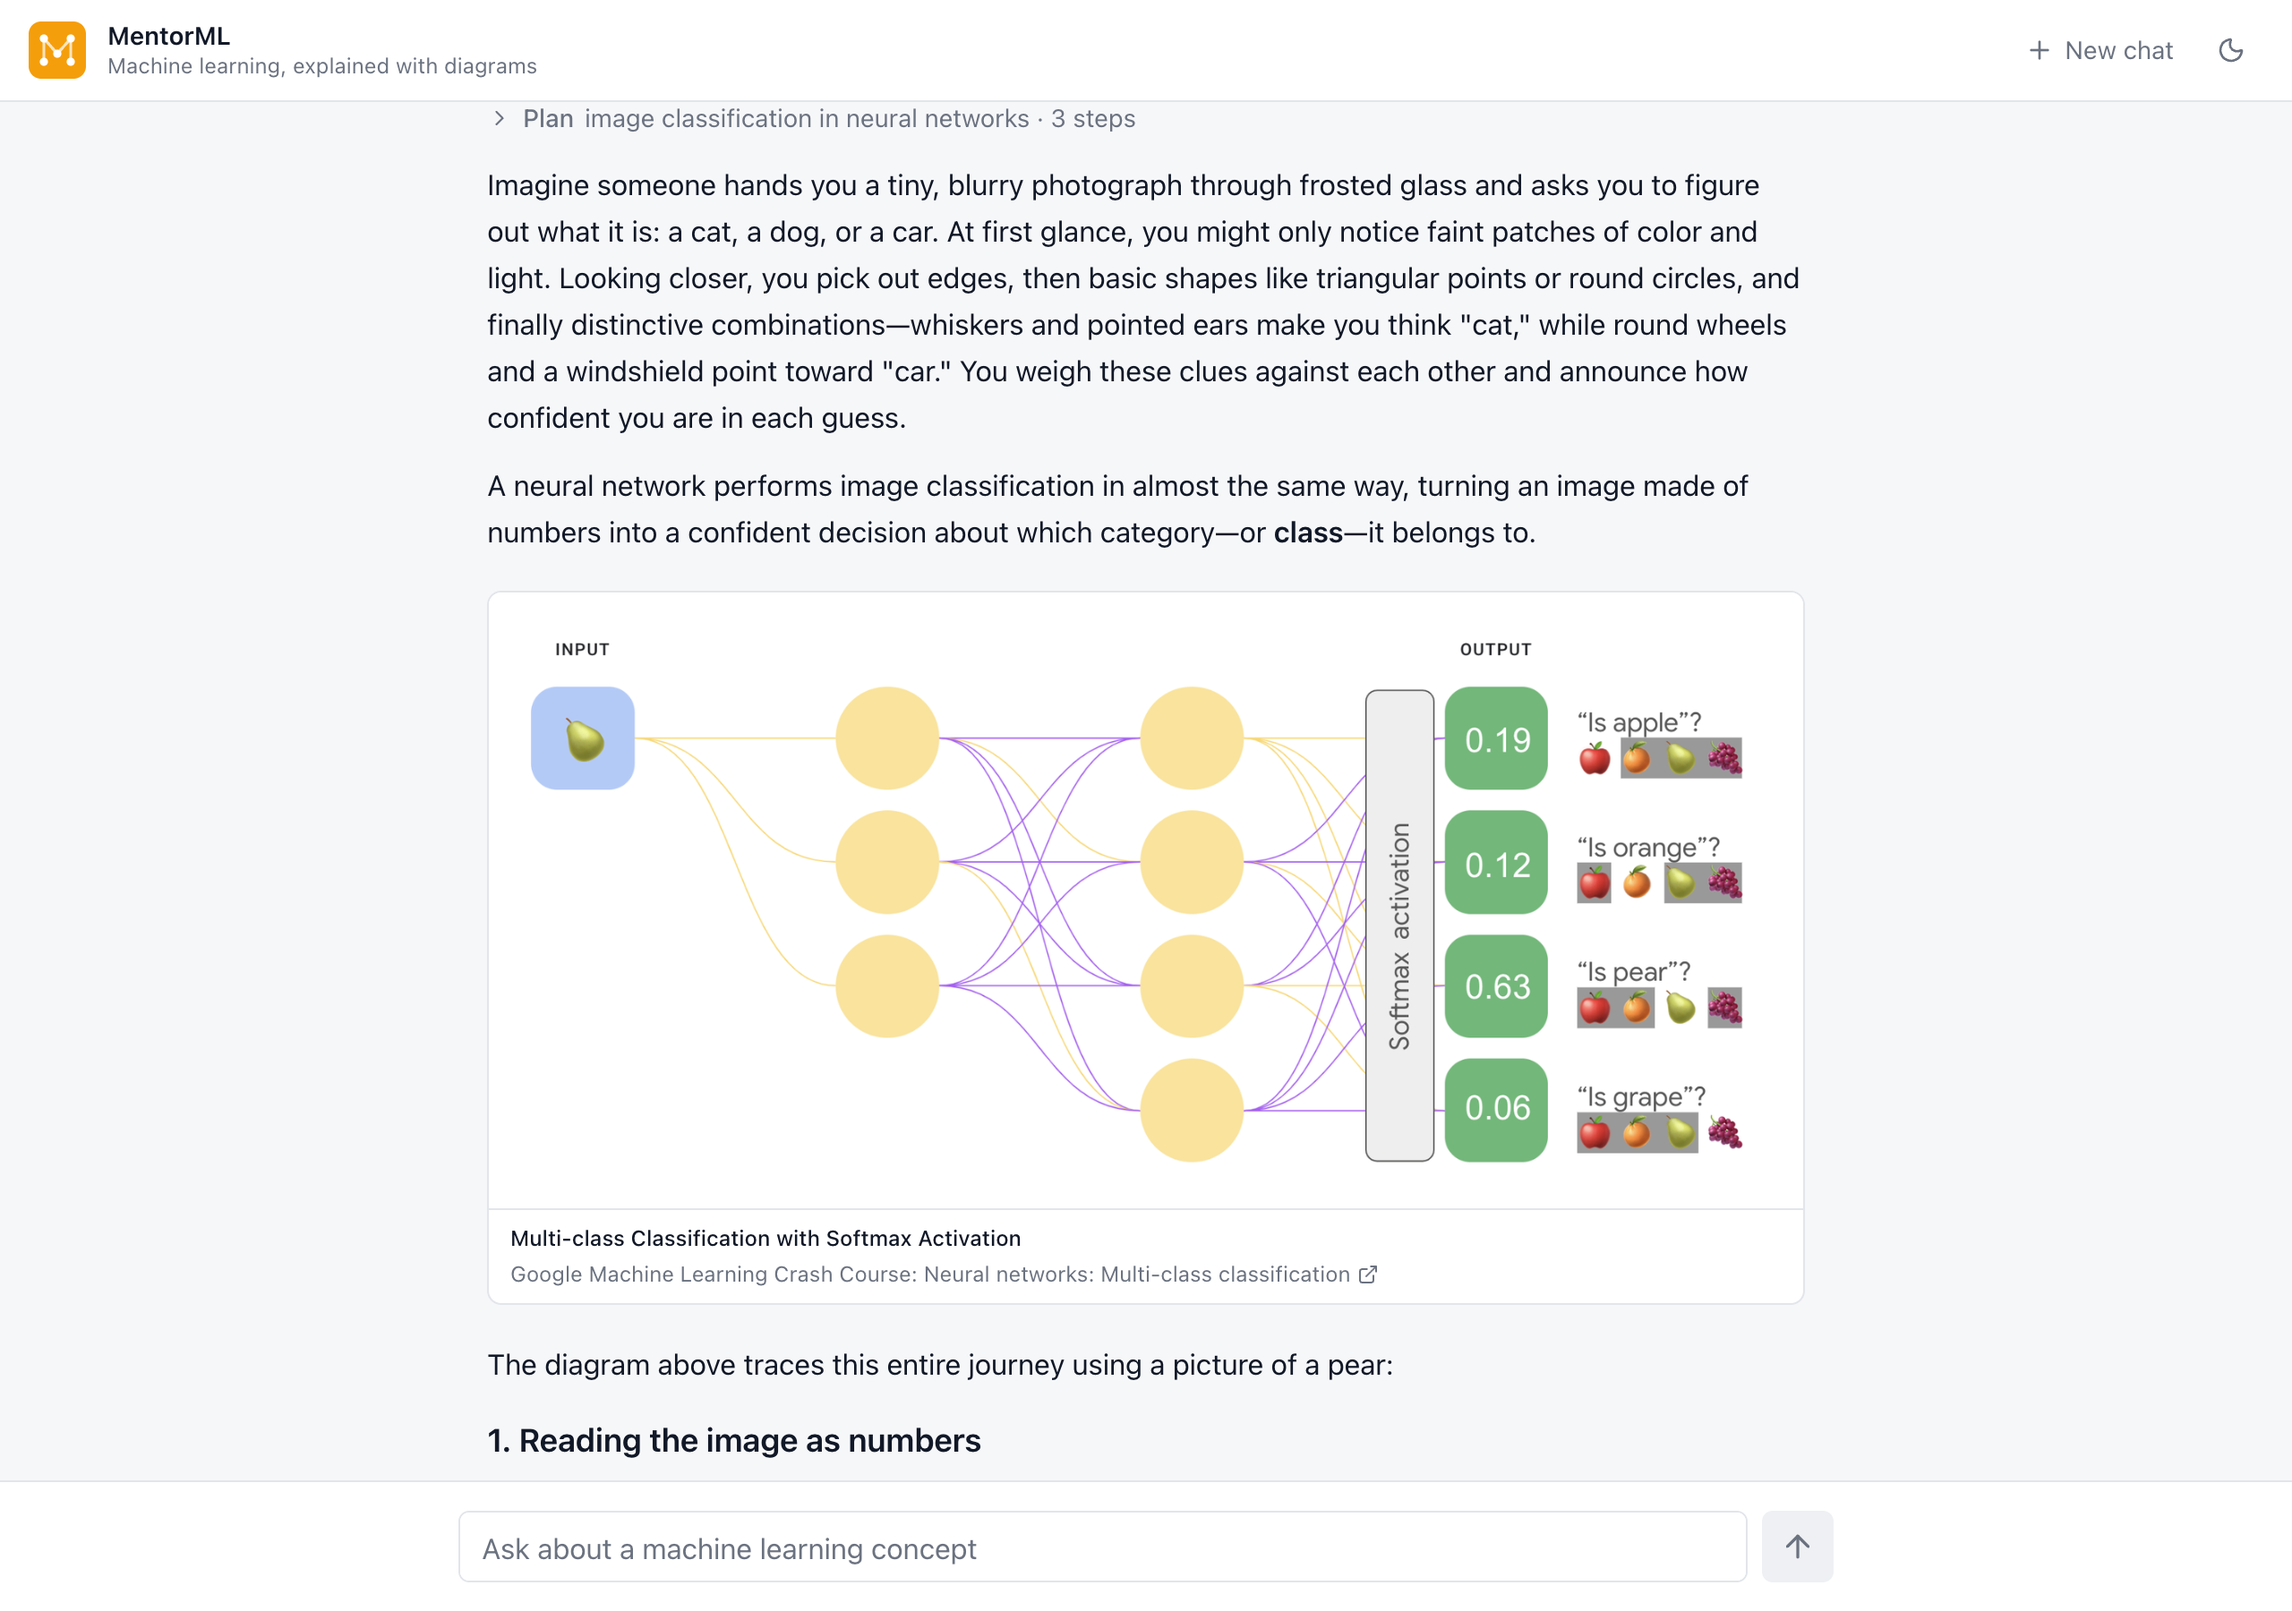
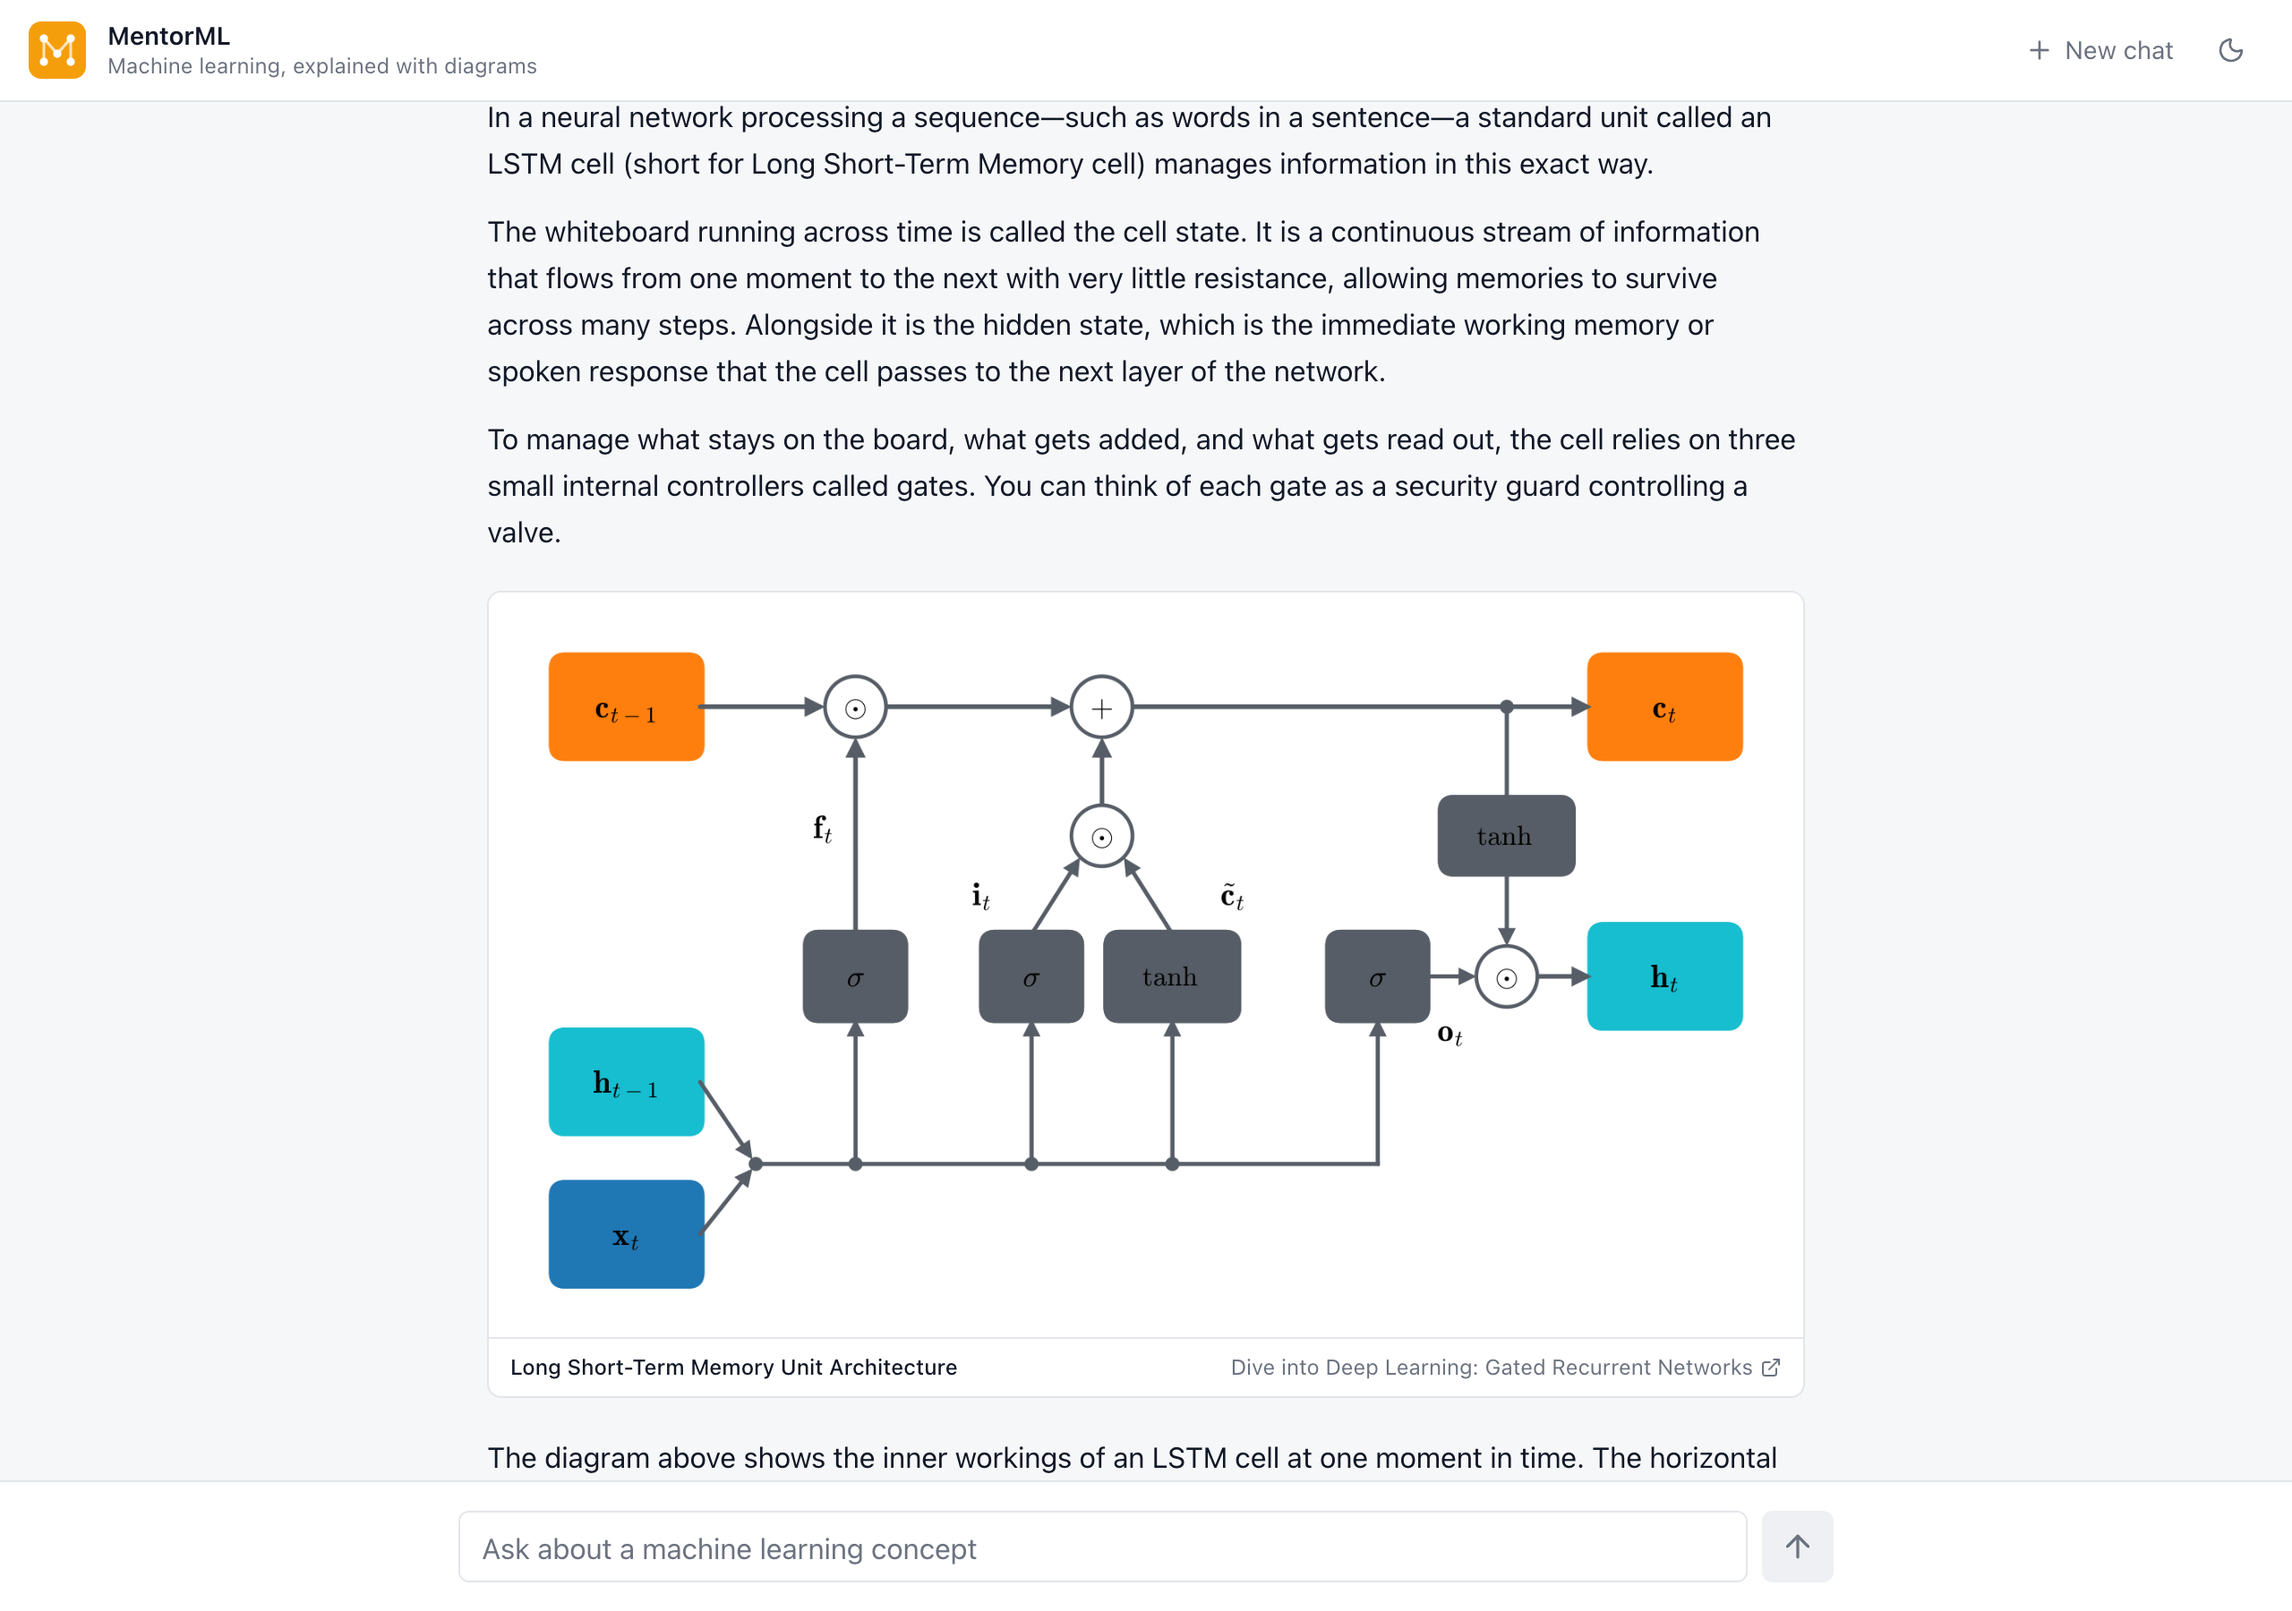
Show the LSTM answer in the README screenshots

diff --git a/README.md b/README.md
@@ -4,7 +4,7 @@ A teaching assistant for AI and machine learning that explains concepts in plain
 
 <picture>
   <source media="(prefers-color-scheme: dark)" srcset="docs/screenshot-dark.png">
-  <img alt="MentorML answering &quot;How does a neural network classify an image into one of several classes?&quot;: an analogy about identifying a blurry photograph, above a diagram of a network sorting a pear into one of four fruit classes from Google's Machine Learning Crash Course" src="docs/screenshot-light.png">
+  <img alt="MentorML answering &quot;How does an LSTM cell decide what to remember and what to forget?&quot;: the cell state explained as a whiteboard and the gates as guards controlling a valve, above a diagram of an LSTM cell from Dive into Deep Learning" src="docs/screenshot-light.png">
 </picture>
 
 ## Features
